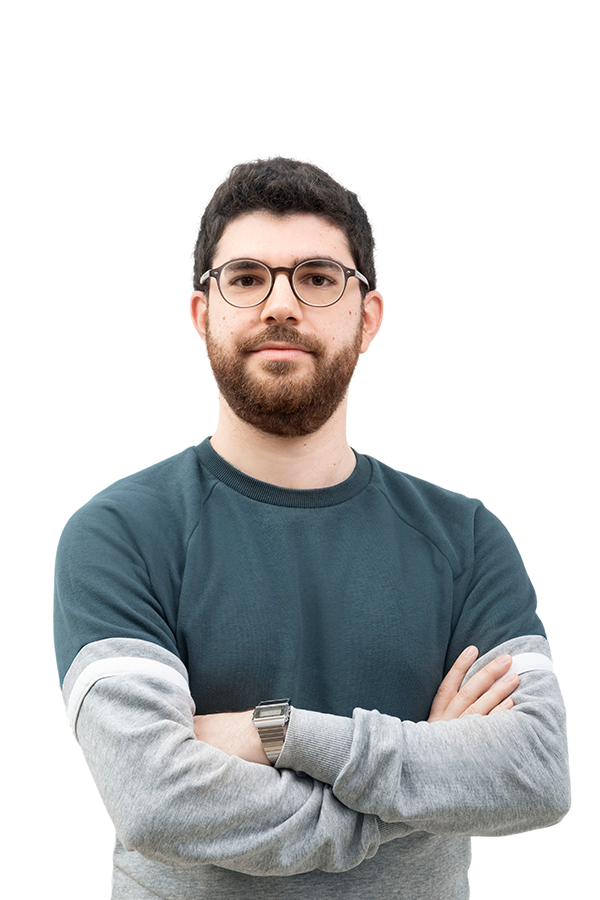
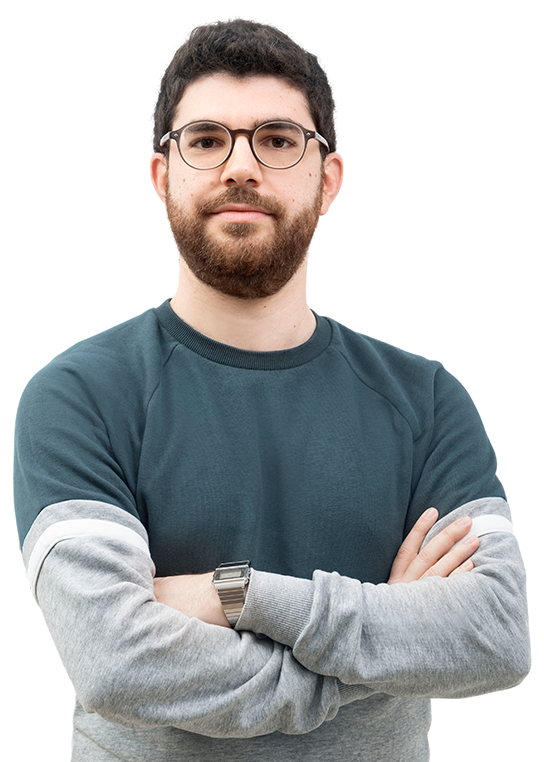
Data struttura a: navigation bar (che in modalità tablet e mobile va in fondo alla finestra), page e alcuni elementi.

diff --git a/main-page.html b/main-page.html
@@ -2,23 +2,33 @@
 <html lang="it">
   <head>
     <meta charset="utf-8">
-    <title>MN - Matteo Negri</title>
+    <title>{Matteo Negri}</title>
     <link rel='stylesheet' href='styles.css'/>
-    <link rel='icon' href='images/favicon.png'/>
+    <link rel='icon' href='images/favicon.ico'/>
     <meta name='viewport'
           content='width=device-width, initial-scale=1.0, maximum-scale=1.0'/>
   </head>
   <body>
 
 <header>
-  <a href="#"><img src="images/logo-mn-nero.svg" alt="logo-mn-nero"></a>
-  <div class="menu"><img src="images/menu.svg" alt="menu-icon"></div>
+  <div class="navigation">
+    <a href="#">
+      <img class="my-logo" src="images/logo-mn-nero.svg" alt="logo-mn-nero" style="max-height:50px">
+    </a>
+    <div>
+      <img class="menu-logo"src="images/menu.svg" alt="menu-icon" style="max-height:30px">
+    </div>
+  </div>
 </header>
 
+<div class="page">
+
 <section class="presentation">
-  <div class="profile-image"><img src="images/profile-photo.png" alt="profile-image-mn"></div>
-  <h1>Ciao, sono Matteo</h1>
-  <h2>Disegno, scrivo e progetto.</h2>
+  <div class="box-profile-image"><img class="profile-image" src="images/profile-photo.png" alt="profile-image-mn" style="max-width:450px"></div>
+  <div class="headline">
+    <h1>Ciao, sono Matteo</h1>
+    <h2>Disegno, scrivo e progetto.</h2>
+  </div>
 </section>
 
 <section class="bio">
@@ -32,38 +42,44 @@
     Il mio obiettivo attuale è di formarmi come UX designer per poter contribuire a migliorare la vita e l'esperienza delle persone.
 </p>
   <div class="social">
-    <span><a href="mailto:mat.neg92@gmail.com"><img src="images/mail.svg" alt="mail-icon"/>Scrivimi!</a></span>
-    <a href="https://www.facebook.com/matteo.negri3"><img src="images/facebook.svg" alt="facebook-link"/></a>
-    <a href="https://www.instagram.com/mat__neg/"><img src="images/instagram.svg" alt="instagram-link"/></a>
-    <a href="https://www.linkedin.com/in/matteo-negri/"><img src="images/linkedin.svg" alt="linkedin-link"/></a>
+    <span><a href="mailto:mat.neg92@gmail.com" target="_blank"><img src="images/mail.svg" alt="mail-icon" height='20'/>Scrivimi!</a></span>
+    <a href="https://www.facebook.com/matteo.negri3" target="_blank"><img class="social-logo" src="images/facebook.svg" alt="facebook-link"/></a>
+    <a href="https://www.instagram.com/mat__neg/" target="_blank"><img class="social-logo" src="images/instagram.svg" alt="instagram-link"/></a>
+    <a href="https://www.linkedin.com/in/matteo-negri/" target="_blank"><img class="social-logo" src="images/linkedin.svg" alt="linkedin-link"/></a>
   </div>
 </section>
 
-<section>
+<section class="skills">
   <h3>Le mie competenze</h3>
   <p></p>
   <h3>I miei strumenti</h3>
   <div class="logos">
-    <img src="images/autocad.png" alt="autocad-logo">
-    <img src="images/photoshop.png" alt="photoshop-logo">
-    <img src="images/illustrator.png" alt="illustrator-logo">
-    <img src="images/indesign.png" alt="indesign-logo">
+    <img class="software" src="images/autocad.png" alt="autocad-logo">
+    <img class="software" src="images/photoshop.png" alt="photoshop-logo">
+    <img class="software" src="images/illustrator.png" alt="illustrator-logo">
+    <img class="software" src="images/indesign.png" alt="indesign-logo">
   </div>
   <h3>Cosa sto imparando</h3>
   <div class="logos">
-    <img src="images/adobe-xd.png" alt="adobexd-logo">
-    <img src="images/figma.png" alt="figma-logo">
-    <img src="images/html5.png" alt="html5-logo">
-    <img src="images/css3.png" alt="css3-logo">
+    <img class="software" src="images/adobe-xd.png" alt="adobexd-logo">
+    <img class="software" src="images/figma.png" alt="figma-logo">
+    <img class="software" src="images/html5.png" alt="html5-logo">
+    <img class="software" src="images/css3.png" alt="css3-logo">
   </div>
   <p></p>
 </section>
 
-<section>
+<section class="cta">
   <p>Vuoi scoprire di più su di me?</p>
   <p>Dai un'occhiata ai miei lavori!</p>
-  <a href="https://ita.calameo.com/read/006078813d6d0c3bd656e">Portfolio</a>
+  <a href="https://ita.calameo.com/read/006078813d6d0c3bd656e" target="_blank">Portfolio</a>
 </section>
+
+</div>
+
+<footer>
+<h5>Fatto da Matteo Negri, 2020.</h5>
+</footer>
 
   </body>
 </html>

diff --git a/styles.css b/styles.css
@@ -5,18 +5,167 @@
 }
 
 
-/* Mobile Styles */
-@media only screen and (max-width: 400px) {
+header {
+  height: 80px;
+  width: 100%;
+  display: flex;
+  justify-content: center;
+  align-items: center;
+  position: fixed;
+  background-color: white;
+}
 
+.navigation {
+  height: 60px;
+  width: 80%;
+  max-width: 1200px;
+  display: flex;
+  justify-content: space-between;
+  align-items: center;
+}
+
+.page{
+  padding-top: 80px;
+  display: flex;
+  justify-content: center;
+  align-items: center;
+  flex-direction: column;
+  border: green solid 1px;
+}
+
+.presentation {
+  width: 90%;
+  border: pink solid 1px;
+}
+
+.box-profile-image {
+  display: flex;
+  justify-content: center;
+  background-image: linear-gradient(white, grey);
+  width: 90%;
+}
+
+.profile-image {
+  width: 100%;
+  min-width: 200px;
+}
+
+.social-logo {
+  height: 50px;
+}
+
+.software {
+  height: 100px;
+}
+
+.bio {
+
+border: green solid 1px;
+}
+
+.skills {
+
+border: green solid 1px;
+}
+
+.cta {
+
+border: green solid 1px;
+}
+
+footer {
+  background-color: grey;
+  height: 100px;
+  display: flex;
+  justify-content: center;
+  align-items: center;
+}
+
+/* Mobile Styles */
+@media only screen and (max-width: 600px) {
+
+  header {
+    position: fixed;
+    bottom: 0;
+    height: 50px;
+  }
+
+  .navigation {
+    height: 40px;
+  }
+
+  .my-logo {
+    height: 30px;
+  }
+
+.page {
+    padding-top: 10px;
 }
 
 
+  .box-profile-image {
+    width: 100%;
+    max-width: 600px;
+}
+
+.profile-image {
+  width: 200px;
+}
+
+}
 /* Tablet Styles */
-@media only screen and (min-width: 401px) and (max-width: 960px) {
+@media only screen and (min-width: 601px) and (max-width: 1000px) {
+
+  header {
+    position: fixed;
+    bottom: 0;
+    height: 50px;
+  }
+
+  .navigation {
+    height: 40px;
+}
+
+.my-logo {
+  height: 30px;
+}
+
+.page {
+    padding-top: 10px;
+}
+
+  .box-profile-image {
+    width: 100%;
+    max-width: 600px;
+}
+
+.profile-image {
+  width: 200px;
+}
+
+.presentation {
+  display: flex;
+}
 
 }
 
 /* Desktop Styles */
-@media only screen and (min-width: 961px) {
+@media only screen and (min-width: 1001px) {
+
+.navigation {
+  width: 90%;
+}
+
+  .my-logo {
+    height: 50px;
+  }
+
+  .box-profile-image {
+    max-width: 600px;
+}
+
+.presentation {
+  display: flex;
+}
 
 }
